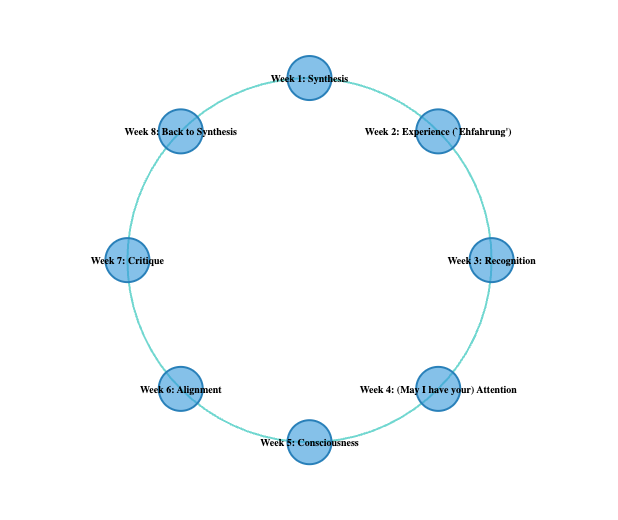
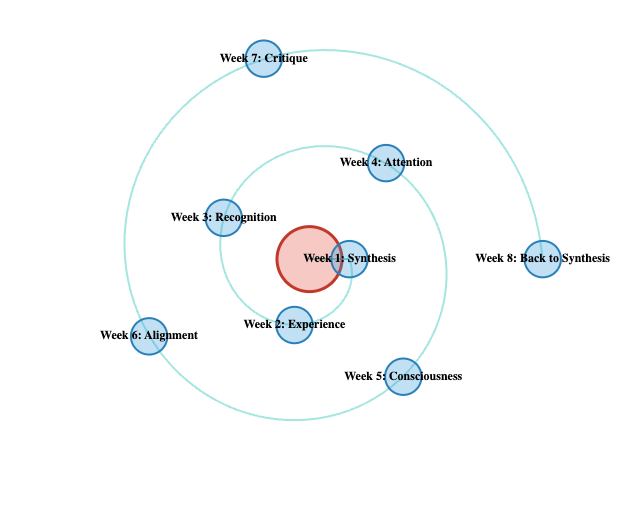
Minor fixes to the Spiral Center view

diff --git a/orchestrator/modules/wholepart.js b/orchestrator/modules/wholepart.js
@@ -174,6 +174,9 @@ class WholepartVisualization {
             .attr('height', this.height)
             .style('background', '#fafafa');
 
+        // Create a group container for all diagram elements (this will be zoomed)
+        this.diagramGroup = this.svg.append('g').attr('class', 'diagram-content');
+
         // Add definitions for markers and gradients
         const defs = this.svg.append('defs');
         
@@ -190,9 +193,9 @@ class WholepartVisualization {
             .attr('fill', '#4ecdc4');
 
         // Create main groups
-        this.connectionsGroup = this.svg.append('g').attr('class', 'connections');
-        this.nodesGroup = this.svg.append('g').attr('class', 'nodes');
-        this.labelsGroup = this.svg.append('g').attr('class', 'labels');
+        this.connectionsGroup = this.diagramGroup.append('g').attr('class', 'connections');
+        this.nodesGroup = this.diagramGroup.append('g').attr('class', 'nodes');
+        this.labelsGroup = this.diagramGroup.append('g').attr('class', 'labels');
     }
 
     setupEventListeners() {
@@ -742,23 +745,16 @@ class WholepartVisualization {
             .attr('stroke', '#c0392b')
             .attr('stroke-width', 3);
 
-        this.labelsGroup.append('text')
-            .attr('x', this.centerX)
-            .attr('y', this.centerY + 4)
-            .attr('text-anchor', 'middle')
-            .attr('font-size', '10px')
-            .attr('font-weight', 'bold')
-            .attr('fill', 'black')
-            .text(this.wholeName);
 
-        // Create smooth spiral path
+        // Create spiral path for parts only (not from center)
+        const minRadius = 40; // Minimum radius to keep first node away from center
         const spiralPoints = [];
         const numSteps = 100; // More steps for smoother curve
         
         for (let step = 0; step <= numSteps; step++) {
             const t = step / numSteps;
             const angle = t * this.spiralTightness * 2 * Math.PI; // Use spiral tightness
-            const radius = t * maxRadius;
+            const radius = minRadius + t * (maxRadius - minRadius); // Match node positioning
             const x = this.centerX + radius * Math.cos(angle);
             const y = this.centerY + radius * Math.sin(angle);
             spiralPoints.push([x, y]);
@@ -776,48 +772,32 @@ class WholepartVisualization {
             .attr('stroke-width', 2)
             .attr('opacity', 0.5);
 
-        // Create spiral path for parts
+        // Create spiral path for parts (minRadius already defined above)
+        
+        // Add connection from center (whole) to first concept node
+        if (numParts > 0) {
+            const firstX = this.centerX + minRadius * Math.cos(0); // First node at angle 0
+            const firstY = this.centerY + minRadius * Math.sin(0);
+            
+            this.connectionsGroup.append('line')
+                .attr('x1', this.centerX)
+                .attr('y1', this.centerY)
+                .attr('x2', firstX)
+                .attr('y2', firstY)
+                .attr('stroke', '#4ecdc4')
+                .attr('stroke-width', 2)
+                .attr('opacity', 0.8);
+        }
+        
         for (let i = 0; i < numParts; i++) {
-            const t = i / (numParts - 1);
+            // Position nodes evenly along the spiral path (0 to 1)
+            const t = numParts === 1 ? 0 : i / (numParts - 1);
             const angle = t * this.spiralTightness * 2 * Math.PI; // Use spiral tightness
-            const radius = t * maxRadius;
+            const radius = minRadius + t * (maxRadius - minRadius); // Start at minRadius, not 0
             const x = this.centerX + radius * Math.cos(angle);
             const y = this.centerY + radius * Math.sin(angle);
 
-            // Draw curved connection to previous point
-            if (i > 0) {
-                const prevT = (i - 1) / (numParts - 1);
-                const prevAngle = prevT * this.spiralTightness * 2 * Math.PI;
-                const prevRadius = prevT * maxRadius;
-                const prevX = this.centerX + prevRadius * Math.cos(prevAngle);
-                const prevY = this.centerY + prevRadius * Math.sin(prevAngle);
-                
-                // Create a curved path segment
-                const pathSegment = d3.path();
-                pathSegment.moveTo(prevX, prevY);
-                
-                // Add intermediate points for smooth curve
-                const steps = 10;
-                for (let j = 1; j <= steps; j++) {
-                    const interT = prevT + (t - prevT) * (j / steps);
-                    const interAngle = interT * this.spiralTightness * 2 * Math.PI;
-                    const interRadius = interT * maxRadius;
-                    const interX = this.centerX + interRadius * Math.cos(interAngle);
-                    const interY = this.centerY + interRadius * Math.sin(interAngle);
-                    if (j === 1) {
-                        pathSegment.lineTo(interX, interY);
-                    } else {
-                        pathSegment.lineTo(interX, interY);
-                    }
-                }
-                
-                this.connectionsGroup.append('path')
-                    .attr('d', pathSegment.toString())
-                    .attr('fill', 'none')
-                    .attr('stroke', '#4ecdc4')
-                    .attr('stroke-width', 3)
-                    .attr('opacity', 0.8);
-            }
+            // No individual connections - we already have the continuous spiral path
 
             // Draw part node
             this.nodesGroup.append('circle')
@@ -1198,13 +1178,17 @@ class WholepartVisualization {
     }
 
     zoom(factor) {
-        if (this.svg) {
-            const currentTransform = this.svg.attr('transform') || 'scale(1)';
+        if (this.diagramGroup) {
+            const currentTransform = this.diagramGroup.attr('transform') || 'scale(1)';
             const match = currentTransform.match(/scale\(([^)]+)\)/);
             const currentScale = match ? parseFloat(match[1]) : 1;
             const newScale = Math.max(0.2, Math.min(3, currentScale * factor));
             
-            this.svg.attr('transform', `scale(${newScale})`);
+            // Apply zoom transform to center the scaled content
+            const translateX = this.centerX * (1 - newScale);
+            const translateY = this.centerY * (1 - newScale);
+            
+            this.diagramGroup.attr('transform', `translate(${translateX}, ${translateY}) scale(${newScale})`);
         }
     }
 

diff --git a/lectures/lecture-sequence.md b/lectures/lecture-sequence.md
@@ -1,4 +1,4 @@
-## Machine Learning and Human Learning
+# Machine & Human Learning
 
 
 
@@ -20,7 +20,7 @@
 
 ---
 
-## Week 2: Experience (`Ehfahrung')
+## Week 2: Experience
 
 [[lecture-2]]
 
@@ -35,7 +35,7 @@
 
 ---
 
-## Week 4: (May I have your) Attention
+## Week 4: Attention
 
 
 [[lecture-4]]
